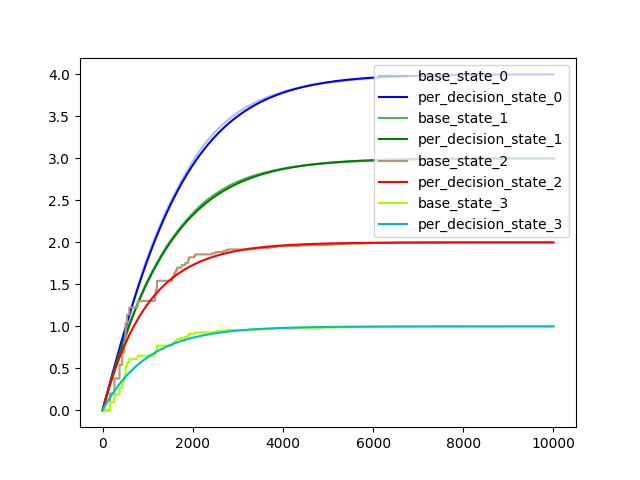
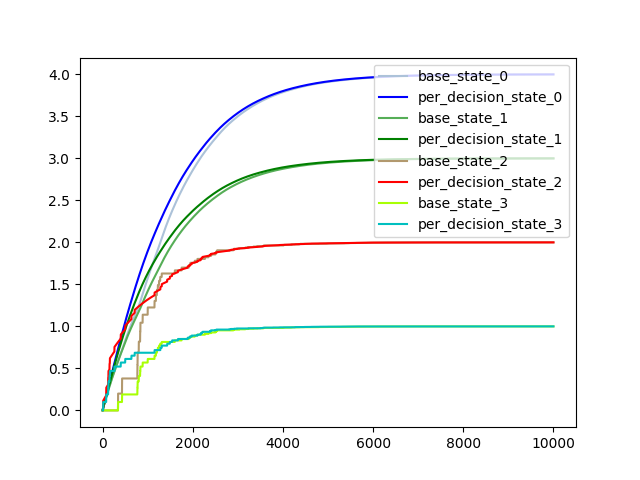
Fix importance_ratio computation

Changed region(s): [[0.1562, 0.1562, 0.625, 0.875], [0.4688, 0.3125, 0.5938, 0.3438], [0.375, 0.3438, 0.4688, 0.375]]

diff --git a/main.py b/main.py
@@ -11,9 +11,19 @@ if __name__ == "__main__":
     base_v_over_time = base_agent.n_step_with_importance_ratio()
     per_decision_v_over_time = per_decision_agent.n_step_with_importance_ratio()
 
-    for state, base_color, per_decision_color in zip(range(1 + NUMBER_INTERMEDIATE_STATES), mcolors.XKCD_COLORS, mcolors.BASE_COLORS):
-        plt.plot([v[state] for v in base_v_over_time], label=f"base_state_{state}", color=base_color)
-        plt.plot([v[state] for v in per_decision_v_over_time], label=f"per_decision_state_{state}", color=per_decision_color)
+    for state, base_color, per_decision_color in zip(
+        range(1 + NUMBER_INTERMEDIATE_STATES), mcolors.XKCD_COLORS, mcolors.BASE_COLORS
+    ):
+        plt.plot(
+            [v[state] for v in base_v_over_time],
+            label=f"base_state_{state}",
+            color=base_color,
+        )
+        plt.plot(
+            [v[state] for v in per_decision_v_over_time],
+            label=f"per_decision_state_{state}",
+            color=per_decision_color,
+        )
     plt.legend(loc="upper right")
     plt.show()
 

diff --git a/agent.py b/agent.py
@@ -74,7 +74,7 @@ class Agent:
         used_time_steps = time_steps[teta : min(T, teta + N_STEP) + 1]
         if self.use_per_decision_importance_ratio:
             importance_ratio_factors = self._compute_per_decision_importance_ratios(
-                time_steps
+                used_time_steps
             )
             self.v[teta] += ALPHA * sum(
                 [

diff --git a/config.py b/config.py
@@ -8,4 +8,4 @@ REWARD_EACH_TRANSITION = 1
 NUMBER_OF_EPISODES = 10000
 N_STEP = 2
 GAMMA = 1
-ALPHA = 0.05
+ALPHA = 0.001
